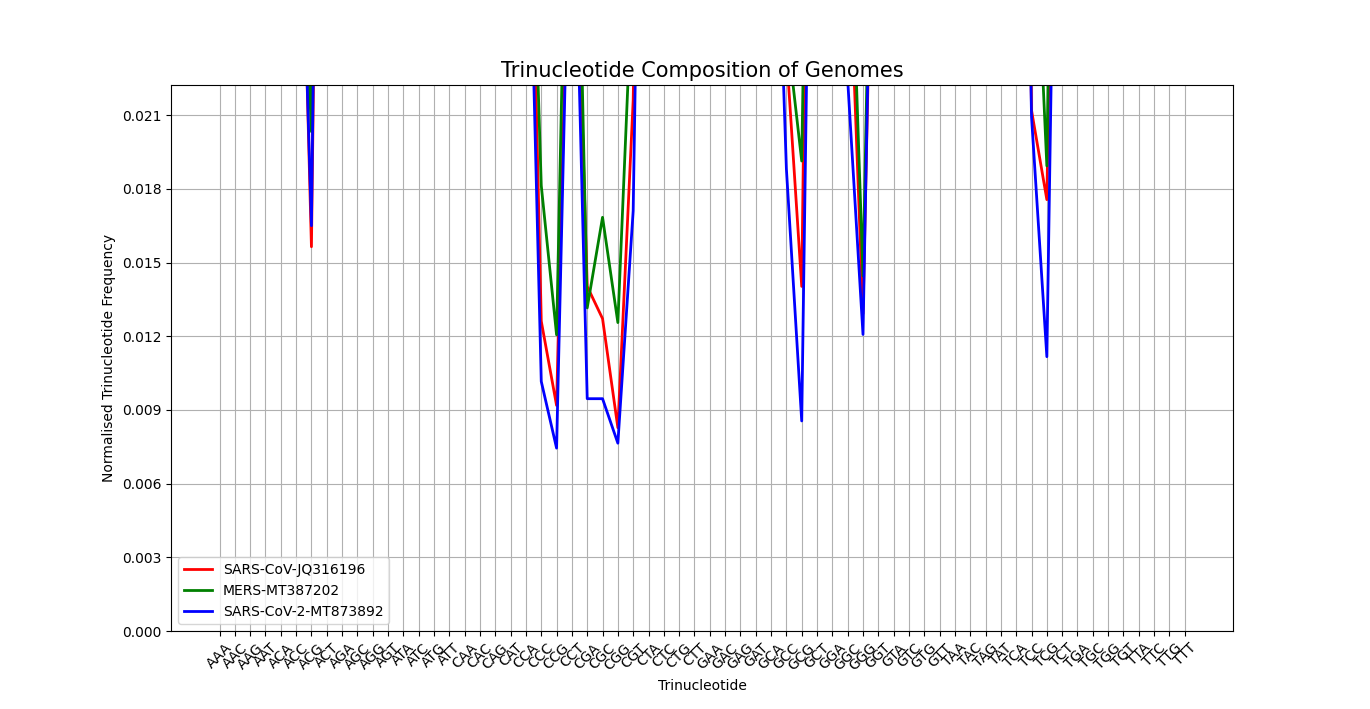
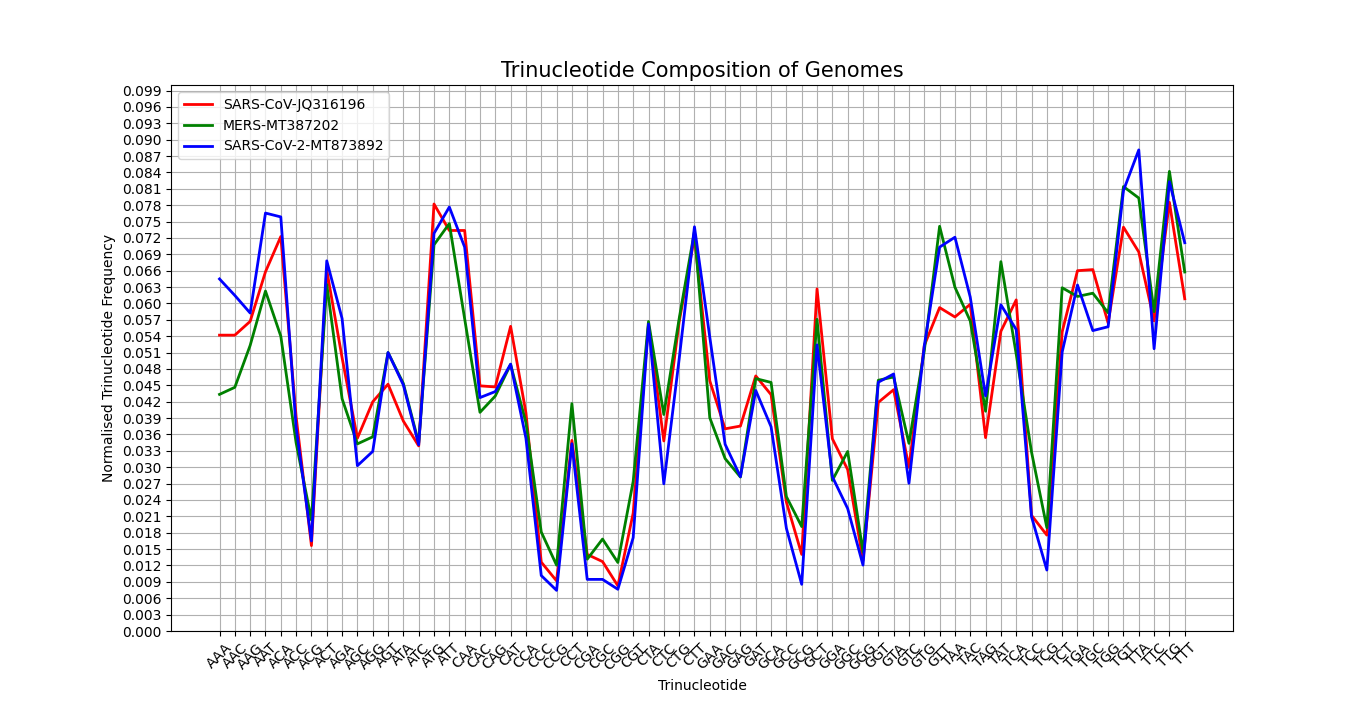
Updated Composition graphs

Changed region(s): [[0.092, 0.1241, 0.6745, 0.8688], [0.6745, 0.1241, 0.8891, 0.8068]]

diff --git a/Clustering.py b/Clustering.py
@@ -48,9 +48,8 @@ def seaborn_scatterplot(model, results, genome_names, polymer_len):
 
     :param str model: String literal name of model for saving figure as filename
     :param ndarray results: contains entire genome data; 'name' value used (*others is optional)
-    :param list polynucleotides: combination of nucleic acids of n length each
     :param list genome_names: names extracted from included genomes['name']
-    :param int polymer_name: len(polynucleotides[0]) used to get polymer name from POLYMER dict
+    :param int polymer_len: used in 'POLYMER[polymer_len]'
     """
     str_names = '_'.join(genome_names)
     polynucleotides = sf.polynucleotides(polymer_len)
@@ -77,9 +76,8 @@ def principal_component_analysis(df, genome_names, polymer_len):
     Time in seconds, printed.
 
     :param DataFrame df: holds normalised frequency scores for fit & transformation
-    :param list polynucleotides: combination of nucleic acids of n length each
     :param list genome_names: names extracted from included genomes['name']
-    :param int polymer_name: len(polynucleotides[0]) used to get polymer name from POLYMER dict
+    :param int polymer_len: used in 'POLYMER[polymer_len]'
     """
     time_start = time.time()
     pca = PCA(n_components=2)
@@ -91,19 +89,19 @@ def principal_component_analysis(df, genome_names, polymer_len):
     seaborn_scatterplot("PCA", pca_results, genome_names, polymer_len)
 
 
-def tSNE(pca_results, genome_names, polymer_len):
+def tSNE(df, genome_names, polymer_len):
     """t-distributed Stochastic Neighbour Embedding. Machine Learning algorithm for Cluster visualisation.
     Time in seconds, printed.
 
-    :param ndarray pca_results: normalised frequency scores, reduced to 2 features, for fit & transformation
+    :param DataFrame df: holds normalised frequency scores for fit & transformation
     :param list genome_names: names extracted from included genomes['name']
-    :param int polymer_name: len(polynucleotides[0]) used to get polymer name from POLYMER dict
+    :param int polymer_len: used in 'POLYMER[polymer_len]'
     """
     np.random.seed(42)  # Reproducability of results
 
     time_start = time.time()
     tsne = TSNE(n_components=2, perplexity=30, early_exaggeration=12)
-    tsne_results = tsne.fit_transform(pca_results)
+    tsne_results = tsne.fit_transform(df)
     print("\nt-SNE complete. Time elapsed: {0:.2f}secs".format(time.time() - time_start))
 
     print("\n" + str(tsne_results), type(tsne_results))

diff --git a/StandardFunctions.py b/StandardFunctions.py
@@ -3,8 +3,6 @@ from os.path import isfile, join
 
 """ Abstract functions used across Application """
 
-POLYMER = {2: "dimers", 3: "trimers", 4: "tetramers", 5: "pentamers", 6: "hexamers"}  # lower-case for file names
-
 
 def capture_filenames(bio_type):
     """Captures all file names in directory, based on 'bio_type'.
@@ -21,17 +19,6 @@ def capture_filenames(bio_type):
 
     return filenames
 
-def polynucleotides(polymer_len):
-    """Returns list of polynucleotides of interest
-
-    :param int polymer_len: used in 'POLYMER[polymer_len]'
-    :return str output: concatenated names of genomes of interest
-    """
-    file = open('data/Polynucleotides/' + POLYMER[polymer_len], 'r')
-    polynucleotides = file.read().splitlines()
-    file.close()
-
-    return polynucleotides
 
 def output_name(names):
     """Concatenates genome names for an output filename.
@@ -94,6 +81,21 @@ def directory(bio_type):
         return  # invoker handles exception
 
     return directory
+
+
+def polynucleotides(polymer_len):
+    """Returns list of polynucleotides of interest
+
+    :param int polymer_len: used in 'POLYMER[polymer_len]'
+    :return str output: concatenated names of genomes of interest
+    """
+    POLYMER = {2: "dimers", 3: "trimers", 4: "tetramers", 5: "pentamers", 6: "hexamers"}  # lower-case for file names
+
+    file = open('data/Polynucleotides/' + POLYMER[polymer_len], 'r')
+    polynucleotides = file.read().splitlines()
+    file.close()
+
+    return polynucleotides
 
 
 # Not in use

diff --git a/main.py b/main.py
@@ -32,10 +32,10 @@ import test
 #Nucleotides.base_combinations(2)  # Polymer Bases Combinations - 3, 4, 5, 6
 
 #Nucleotides.composition_comparison(2, "SARS-CoV-JQ316196", "MERS-MT387202", "SARS-CoV-2-MT873892")
-#Nucleotides.composition_comparison(3, "SARS-CoV-JQ316196", "MERS-MT387202", "SARS-CoV-2-MT873892")
-#Nucleotides.composition_comparison(4, "SARS-CoV-JQ316196", "MERS-MT387202", "SARS-CoV-2-MT873892")
-#Nucleotides.composition_comparison(5, "SARS-CoV-JQ316196", "MERS-MT387202", "SARS-CoV-2-MT873892")
-#Nucleotides.composition_comparison(6, "SARS-CoV-JQ316196", "MERS-MT387202", "SARS-CoV-2-MT873892")
+Nucleotides.composition_comparison(3, "SARS-CoV-JQ316196", "MERS-MT387202", "SARS-CoV-2-MT873892")
+Nucleotides.composition_comparison(4, "SARS-CoV-JQ316196", "MERS-MT387202", "SARS-CoV-2-MT873892")
+Nucleotides.composition_comparison(5, "SARS-CoV-JQ316196", "MERS-MT387202", "SARS-CoV-2-MT873892")
+Nucleotides.composition_comparison(6, "SARS-CoV-JQ316196", "MERS-MT387202", "SARS-CoV-2-MT873892")
 
 
 """ Cluster Analysis """

diff --git a/Nucleotides.py b/Nucleotides.py
@@ -126,7 +126,7 @@ def composition_comparison(polymer_len, *names):
 
     # Y axis
     tick = (0.001 * polymer_num if polymer_num > 2 else 0.01)
-    stop = 0.25 if polymer_num == 2 else (0.2 / polymer_num ** 2)
+    stop = 0.25 if polymer_num == 2 else (0.2 / polymer_num) * 1.5
     plt.ylabel("Normalised " + POLYNUCLEOTIDE[polymer_num] + " Frequency", fontsize=10)
     plt.yticks(np.arange(0, stop, tick))
     plt.ylim(0, stop)

diff --git a/dataimport.py b/dataimport.py
@@ -7,7 +7,7 @@ from os.path import isfile, join
 
 
 def api(db, ids):
-    """Invokes API, conditionally, for any dataset type.
+    """Establishes connection to NCBI servers
     Exception Handling: for bad HTTP requests
 
     :param str db: database name for type of data to extract
